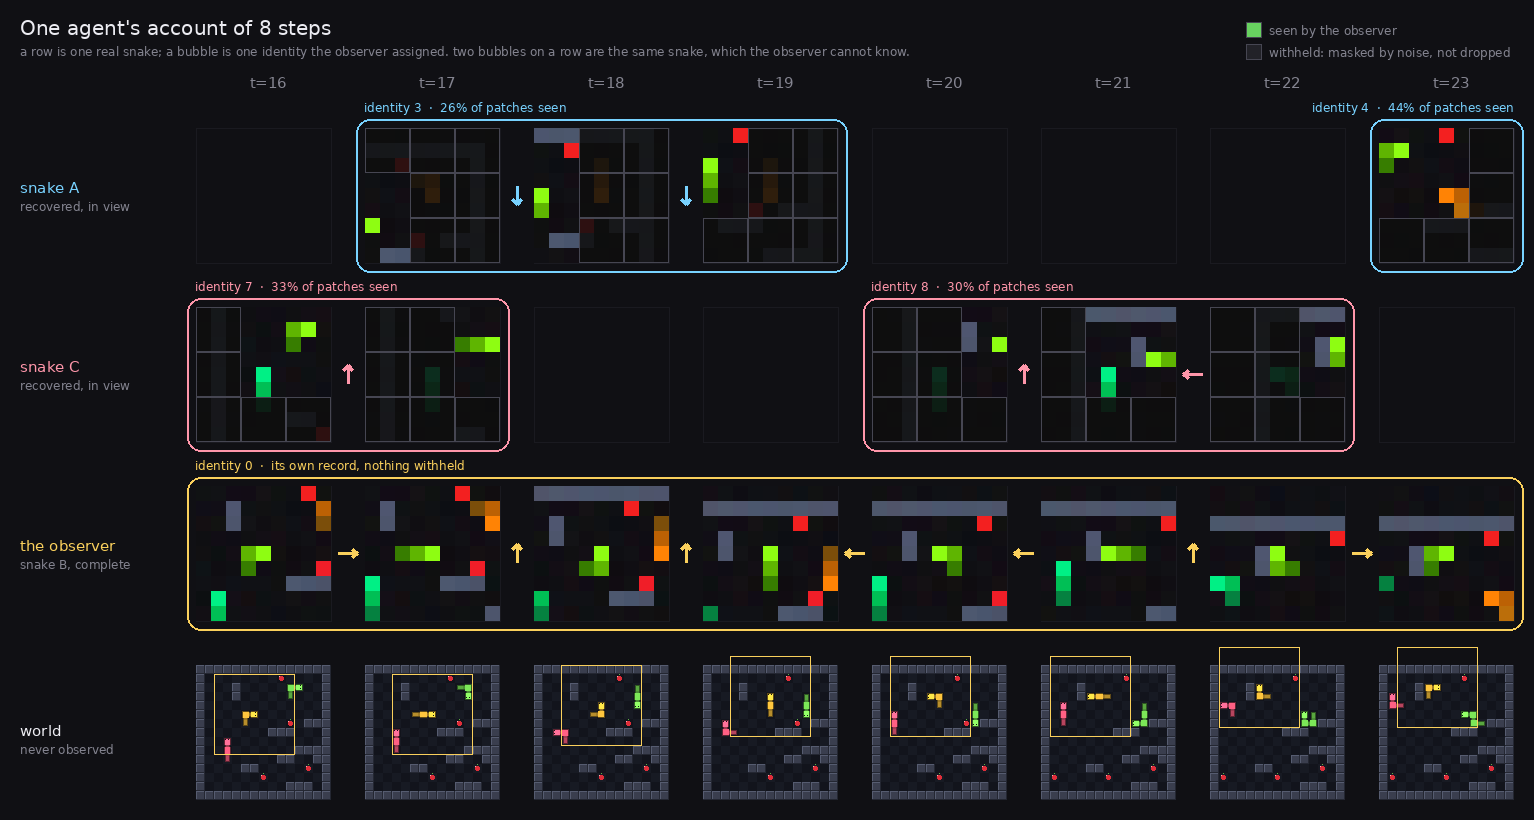
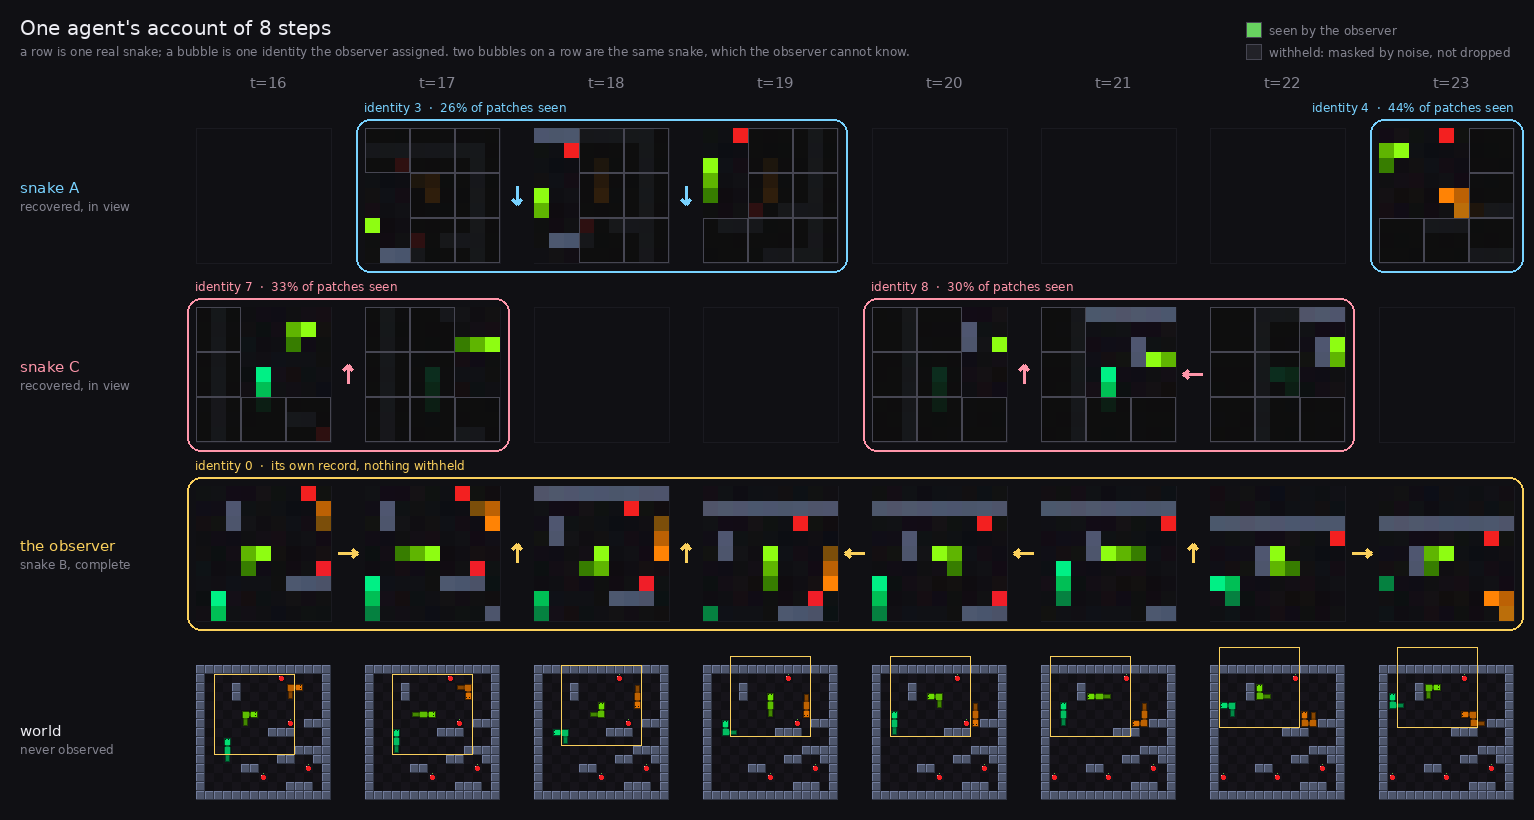
Give the board the same colours as the views
The game's renderer carries its own retro palette, so the same snake came
out green in a view and yellow on the board directly beneath it, which is
the one confusion this diagram cannot afford. Swapping the colours
underneath keeps the bevelled walls, the eyes and the rounded joints, and
makes a snake one colour wherever it appears.

Claude-Session: https://claude.ai/code/session_01XgF3Zjb5p8HtWvkpdFoyG4

Changed region(s): [[0.1226, 0.7927, 1.0, 0.9756]]

diff --git a/diagram_gen/ego_timeline.py b/diagram_gen/ego_timeline.py
@@ -36,6 +36,9 @@ import numpy as np
 from PIL import Image, ImageDraw, ImageFont
 from datasets import load_from_disk
 
+from marlenv.core import render
+from marlenv.core.palette import (BODY_WHEEL, EMPTY_RGB, FRUIT_RGB,
+                                  WALL_RGB)
 from marlenv.core.render import draw_frame
 from marlenv.core.snake import Cell, Snake
 from marlenv.data import decode_episode
@@ -147,6 +150,23 @@ def owners(episode, pairs):
                 found[int(identity)] = candidate
                 break
     return found
+
+
+def match_palette():
+    """Draw the board in the hues a view uses, keeping the pixel art.
+
+    The game's renderer carries its own retro palette, so the same snake
+    comes out green in a view and yellow on the board -- exactly the
+    confusion this diagram cannot afford. Swapping the colours underneath
+    keeps the bevelled walls, eyes and rounded joints, and makes a snake
+    one colour wherever it appears.
+    """
+    render.SNAKE_COLORS = list(BODY_WHEEL)
+    render.WALL = WALL_RGB
+    render.WALL_LIGHT = render._shade(WALL_RGB, 1.45)
+    render.WALL_DARK = render._shade(WALL_RGB, 0.63)
+    render.BACKGROUND = (EMPTY_RGB, render._shade(EMPTY_RGB, 1.3))
+    render.FRUIT = FRUIT_RGB
 
 
 def board_image(episode, step, cell):
@@ -361,6 +381,7 @@ def compose(episode, ego, start, pairs, args, radius):
 
 def main():
     args = parse_args()
+    match_palette()
     dataset = load_from_disk(os.path.join(args.data_root, args.component))
     radius = int(dataset[0]['view_radius'])
     score, index, ego, start, episode = best_segment(dataset, args, radius)
